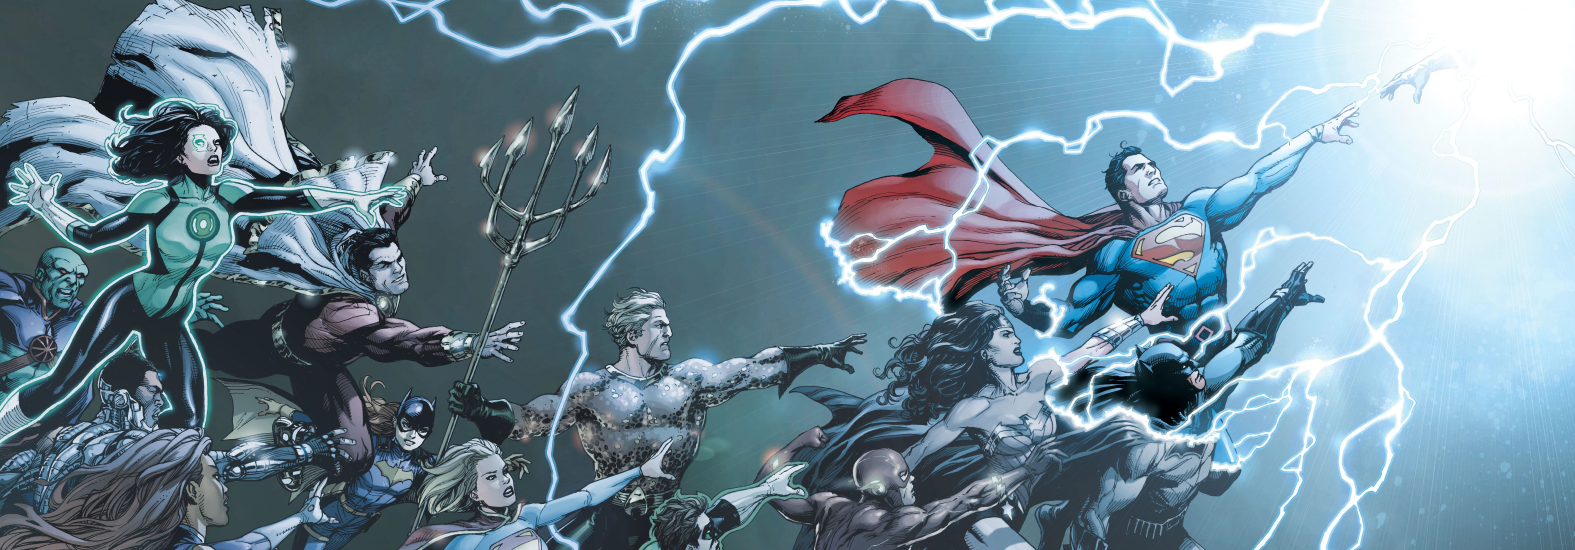
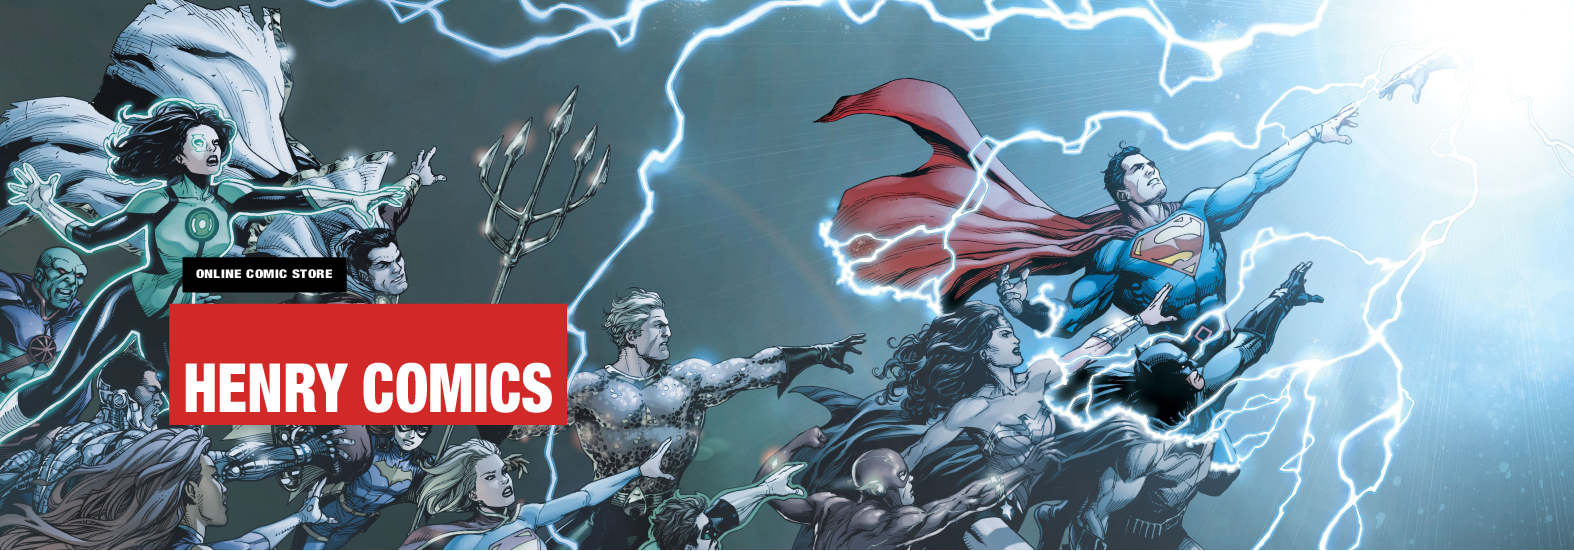
mejoras en imagenes de carrusel

diff --git a/client/src/components/carrousel/carrousel.jsx b/client/src/components/carrousel/carrousel.jsx
@@ -6,19 +6,19 @@ import {
     Carousel,
     CarouselItem,
     CarouselControl,
-    CarouselIndicators
+    CarouselIndicators,
+    CarouselCaption
   } from 'reactstrap';
 
   const items = [
     {
       src: Slide1,
-      altText: 'Slide 1',
-      caption: 'Slide 1'
+      altText: 'Bienvenidos',
     },
     {
       src: Slide2,
-      altText: 'Slide 2',
-      caption: 'Slide 2'
+      altText: 'Henry Comics',
+
     }
   ];
 
@@ -58,7 +58,8 @@ const LandingCarrousel = (props) => {
           key={item.src}
         >
           <img className="imgcarrousel" src={item.src} alt={item.altText} />
-          
+    
+          <CarouselCaption/>
         </CarouselItem>
       );
     });
